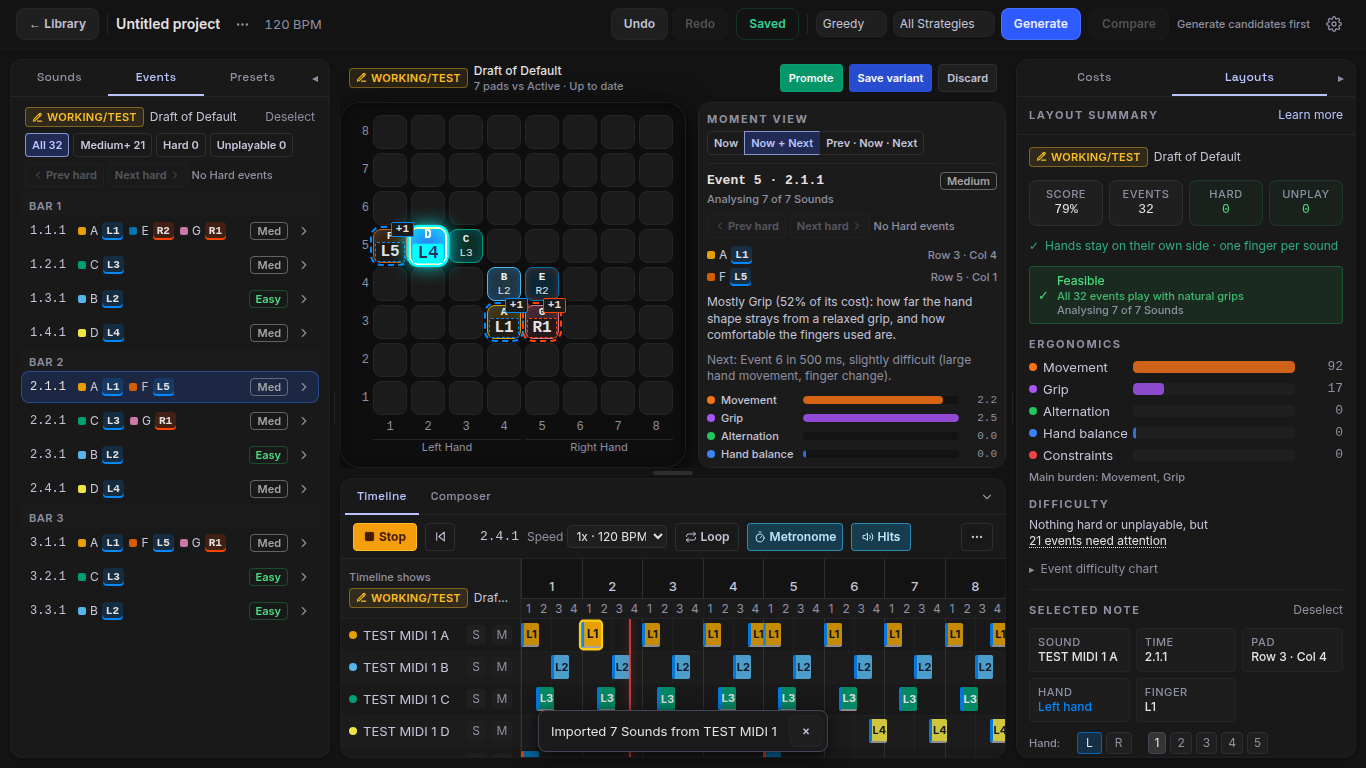
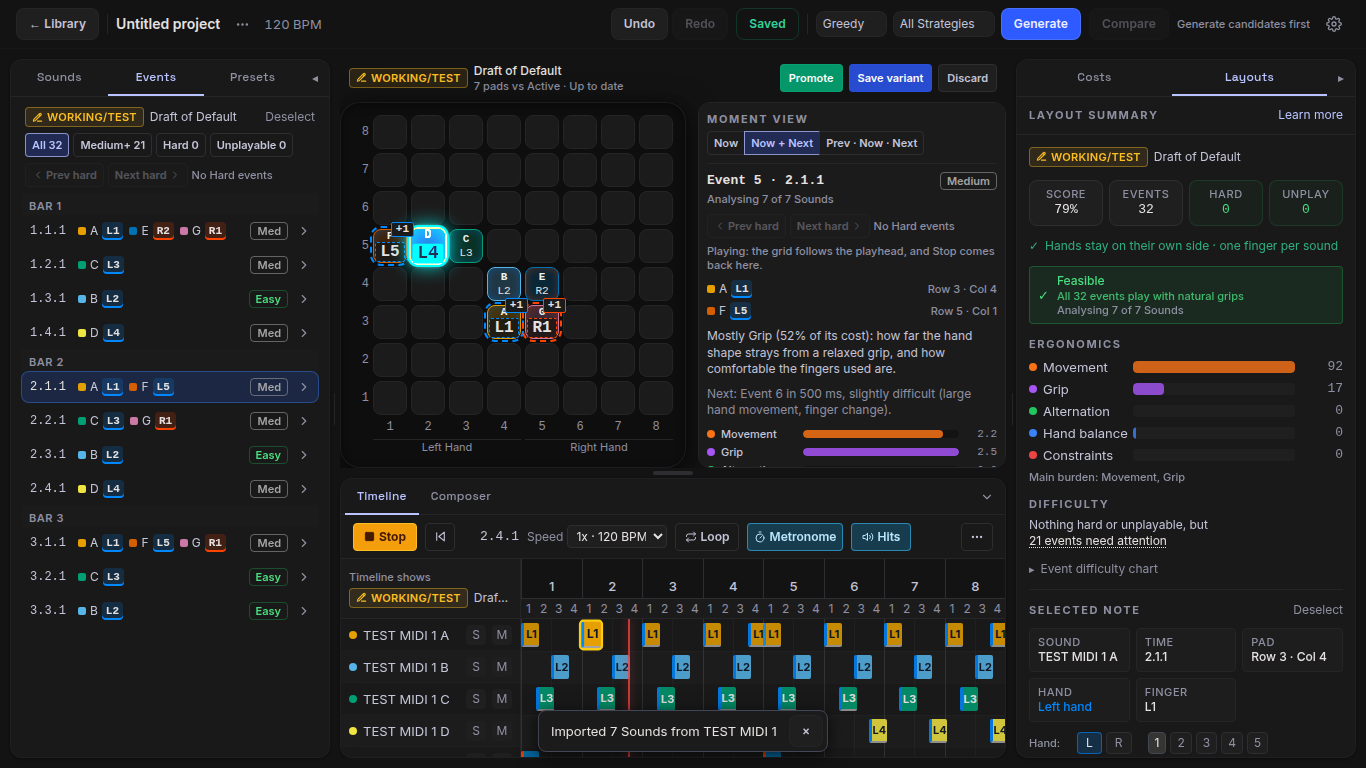
S4.2: tracker gets PR #113 and the full-suite results
The session and its criteria point at PR #113, and the session checks
record the full suite. The playback screenshots are retaken with the
inspector's note that the grid follows the playhead.

Claude-Session: https://claude.ai/code/session_01L9pLUNRNmaR28QBor6bx3G

Changed region(s): [[0.4919, 0.3125, 0.7379, 0.5938]]

diff --git a/docs/product/UI_ROADMAP_PROGRESS.md b/docs/product/UI_ROADMAP_PROGRESS.md
@@ -590,32 +590,32 @@ Ephemeral actions (EPHEMERAL_ACTIONS) now list only document-touching actions th
 
 #### S4.2 — Moment view, Events list and docked inspector ∥ S4.3a
 
-- **Status:** Done (this PR)
+- **Status:** Done (PR #113)
 - **Prerequisites:** S4.1, S2.4, S3.2.
 - **Decisions:** Q7 (Events list, inspector and pad-inspector labels say "Event" and "notes").
 
 **Deliverables**
-- [x] Rebuilt moment view (T09), with Learn More's view-mode text · *PR / verified by:* this PR.
+- [x] Rebuilt moment view (T09), with Learn More's view-mode text · *PR / verified by:* PR #113.
   - **Strikes.** A struck pad keeps its Sound's colour and name and gains a ring in its hand's colour and a finger badge ("L2", or "✗" for a note that can't be played). The next event's pads get a dashed outline in the hand's colour, "+1" and the finger that will strike them; the previous event's a dotted, fainter outline and "−1". Every other pad sits at 45 %. The layers come from `src/ui/analysis/momentOverlay.ts`; `InteractiveGrid.tsx` draws them.
   - **Arrows** run from each finger's last pad at or before the event (else its hand's last pad) to its next strike, and only when it moves (`selectionModel.ts`). On TEST MIDI 1 every Sound keeps one finger, so most moves are holds and draw no arrow.
   - **One control**, Now | Now + Next | Prev · Now · Next (`MomentViewControl`, aria-pressed; O cycles it, new input-table row `moment-view`), replaces the onion-skin toggle and "Show Transition Arrows". The choice is remembered per viewer with the other view settings.
   - **Playback.** The playhead drives the same overlay (`playbackOverlayAt`): its strikes flash at full intensity, nothing dims, and the fingers, the next ones too, show at 16 px. Stop brings the selected event back.
   - **Learn More** (step 5) lists the three views from `MOMENT_VIEWS`, the marks and what playback shows.
-- [x] Hand tokens and finger notation (T42 part) · *PR / verified by:* this PR.
+- [x] Hand tokens and finger notation (T42 part) · *PR / verified by:* PR #113.
   - `--hand-left` and `--hand-right` (and `--difficulty-*` for the timeline's markers) live in `index.css` and are exposed to Tailwind. The grid, the timeline pills (a hand-coloured left edge), Compare's grids, the Sounds panel's finger chips, the layout summary, the Composer's preset inspector and the new inspectors use them; the right hand is no longer purple in Compare.
   - `src/utils/fingerNotation.ts` is the one notation: L1–R5, with the finger's name ("Left index finger") in tooltips. The "TH IN MI RI PI" and "L-IN" codes are gone, and a grep test keeps finger-number maps and hand hexes out of the product surfaces.
   - The selected Sound gets a neutral outline on the grid, its notes a neutral outline in the timeline and its lane a neutral tint. A click on empty space around the grid or under the Sounds list clears it, as Escape does (new row `empty-space-click`).
-- [x] Pad vs moment selection (T28) · *PR / verified by:* this PR.
+- [x] Pad vs moment selection (T28) · *PR / verified by:* PR #113.
   - A pad click selects the pad (an outline) and its Sound and opens the pad inspector in the dock. It never selects an event, so nothing dims. With an event selected, the event stays: the timeline outlines every hit of the Sound (and tints its lane), and Prev hit and Next hit step through them from the event. With none, "Show its hits" selects the first.
   - The pad inspector (`PadInspector.tsx`) shows the Sound and its hits ("8 hits", "hit 3 of 8") and its soft finger preference, in the Sounds panel's control: it writes `voiceConstraints` (invariant 6) and shows the plan's finger faintly when none is set. It has Lock, and Remove with the Undo toast ("Removed … from Row 4 · Col 4"); on a read-only layout both are refused with the S3.2 hint. Esc or × closes it.
   - The input table's `pad-click-moment` and `pad-click-idle` rows say this, and their registry tests check it through the real grid, pad inspector and timeline.
-- [x] Events list for finding problems (T27) · *PR / verified by:* this PR.
+- [x] Events list for finding problems (T27) · *PR / verified by:* PR #113.
   - Rows read bar.beat.sixteenth, then the Sounds struck, each with its finger chip, then a text difficulty badge (Easy, Med, Hard, ✗ Unplayable) in the timeline's colours. The cost and factors are in the badge's tooltip, and "Infinity" is gone. Rows sit under "Bar n" headers.
   - Filter chips All / Medium+ / Hard / Unplayable show their counts. Medium+ is Medium, Hard and Unplayable; Hard and Unplayable are exact. Prev hard and Next hard, with "Hard n of N", step through the Hard events (Shift+←/→, new row `step-hard-events`). They never wrap; with nothing selected, Next takes the first and Prev the last.
   - The Analysis panel's "N hard events", "N unplayable" and "N events need attention" are buttons that open the list with that filter.
   - A click anywhere on a row selects it. Its chevron expands its factors, one row at a time, with aria-expanded; ↑/↓ move within the filtered rows.
   - The chart draws an unplayable event as a full-height hatched bar with its own tooltip (S1b.1's follow-up).
-- [x] Docked moment inspector under the grid (T27) · *PR / verified by:* this PR.
+- [x] Docked moment inspector under the grid (T27) · *PR / verified by:* PR #113.
   - The dock (`MomentDock.tsx`) sits beside the grid frame (see Deviations), as tall as the frame and 248–360 px wide. It takes the width the height-bound pads leave, so it costs no pad size: pads stay 34 px at 1366×768 and 51 px at 1600×1000. In a region too narrow for it, it moves under the frame and the drawer gives way. Its size never changes with the selection. It holds the moment-view control, the pad inspector and the moment inspector, or a hint.
   - The moment inspector (`MomentInspector.tsx`) shows, from top to bottom:
     - "Event 5 · 2.1.1" with its difficulty badge and the scope line;
@@ -628,10 +628,17 @@ Ephemeral actions (EPHEMERAL_ACTIONS) now list only document-touching actions th
   - Screenshots in `docs/screenshots/S4.2/` at 1366 and 1600, before (main) and after: `01-moment-view`, `02-pad-click-with-event` and `03-playing-with-event-selected`. After only: `04-pad-inspector`, `05-prev-now-next` and `06-events-hard-filter`.
 
 **Exit criteria**
-- [x] **P4-2** The three view modes produce distinct pixel output, and next and previous strikes keep their Sound's colour and name. · *PR / verified by:* this PR. `moment-view.spec.ts` (Chromium 1366 and 1600) selects an event with a chord between two others. Screenshots of the grid in the three views differ pairwise. In Prev · Now · Next, every struck, next and previous pad shows its Sound's name and its Sound's colour (within 2 per channel), with the "+1" and "−1" tags. C5's spec compares Now + Next with Prev · Now · Next. `momentOverlay.test.ts` and `momentView.test.tsx` cover the layers, views, arrows and the playback overlay.
-- [x] **P4-3a** With a moment selected, Play shows full-intensity pad flashes and the next-finger preview. · *PR / verified by:* this PR. `moment-view.spec.ts`: with an event selected in Now + Next, Play is sampled every frame for 2 s. No pad dims in any frame, pads flash, and more than 80 % of frames show the next finger and 16 px finger badges. Stop brings the struck pads back. C8's spec still passes.
-- [x] **P4-8** Each Events filter chip shows exactly the matching moments. Prev/Next hard visits every Hard moment in time order and stops at the ends. · *PR / verified by:* this PR. `events-list.spec.ts` (1366 and 1600) runs on TEST MIDI 1 with its Sounds spread over the grid (16 Hard events of 32). The expected sets are computed from the plan's notes (each event's worst note), not from the list. Each chip's rows and count equal its set. Next hard, from no selection, visits the 16 in time order and stops at the last; Shift+← walks back one Hard event at a time and stays on the first. `eventsList.test.tsx` and `eventDifficulty.test.ts` check the same in happy-dom and in node.
-- [x] **P4-11a** The updated input-table row "pad click with a moment selected" passes its registry test. · *PR / verified by:* this PR. In `inputTable.test.tsx`, row `pad-click-moment`: with event 9 selected, a click on a pad it doesn't strike keeps the event (still struck on the grid) and selects the pad and its Sound. The timeline outlines exactly that Sound's notes, and Prev hit and Next hit go to its hits either side of the event. Row `pad-click-idle` checks the pad inspector opens without selecting an event. `padInspector.test.tsx` covers Show its hits, the ends, the finger preference, Lock, and Remove with Undo.
+- [x] **P4-2** The three view modes produce distinct pixel output, and next and previous strikes keep their Sound's colour and name. · *PR / verified by:* PR #113. `moment-view.spec.ts` (Chromium 1366 and 1600) selects an event with a chord between two others. Screenshots of the grid in the three views differ pairwise. In Prev · Now · Next, every struck, next and previous pad shows its Sound's name and its Sound's colour (within 2 per channel), with the "+1" and "−1" tags. C5's spec compares Now + Next with Prev · Now · Next. `momentOverlay.test.ts` and `momentView.test.tsx` cover the layers, views, arrows and the playback overlay.
+- [x] **P4-3a** With a moment selected, Play shows full-intensity pad flashes and the next-finger preview. · *PR / verified by:* PR #113. `moment-view.spec.ts`: with an event selected in Now + Next, Play is sampled every frame for 2 s. No pad dims in any frame, pads flash, and more than 80 % of frames show the next finger and 16 px finger badges. Stop brings the struck pads back. C8's spec still passes.
+- [x] **P4-8** Each Events filter chip shows exactly the matching moments. Prev/Next hard visits every Hard moment in time order and stops at the ends. · *PR / verified by:* PR #113. `events-list.spec.ts` (1366 and 1600) runs on TEST MIDI 1 with its Sounds spread over the grid (16 Hard events of 32). The expected sets are computed from the plan's notes (each event's worst note), not from the list. Each chip's rows and count equal its set. Next hard, from no selection, visits the 16 in time order and stops at the last; Shift+← walks back one Hard event at a time and stays on the first. `eventsList.test.tsx` and `eventDifficulty.test.ts` check the same in happy-dom and in node.
+- [x] **P4-11a** The updated input-table row "pad click with a moment selected" passes its registry test. · *PR / verified by:* PR #113. In `inputTable.test.tsx`, row `pad-click-moment`: with event 9 selected, a click on a pad it doesn't strike keeps the event (still struck on the grid) and selects the pad and its Sound. The timeline outlines exactly that Sound's notes, and Prev hit and Next hit go to its hits either side of the event. Row `pad-click-idle` checks the pad inspector opens without selecting an event. `padInspector.test.tsx` covers Show its hits, the ends, the finger preference, Lock, and Remove with Undo.
+
+**Session checks**
+- [x] Full suite before push. · *PR / verified by:* on 8c70d85 and aed2288:
+  - `npm run typecheck`: clean.
+  - `npm run test:run`: 132 files, 1,463 passed, 4 `runIf` skips. That includes `testMidi1Integration.test.ts` (37 passed, 4 skipped): 0 unplayable events for Greedy, Beam and Annealing Quick, with and without the lock.
+  - `npm run build` + `npm run check:no-test-hook`: OK.
+  - Playwright at chromium-1366 and -1600, and C1 at -1920: 241 passed, 2 failed (11.4 min). The 2 are the Library screenshot comparisons (8,514 and 8,479 pixels), which differ only in a cloud container and pass in CI. C9's expected-fail case is unchanged.
 
 #### S4.3a — A DAW-grade transport ∥ S4.2
 
